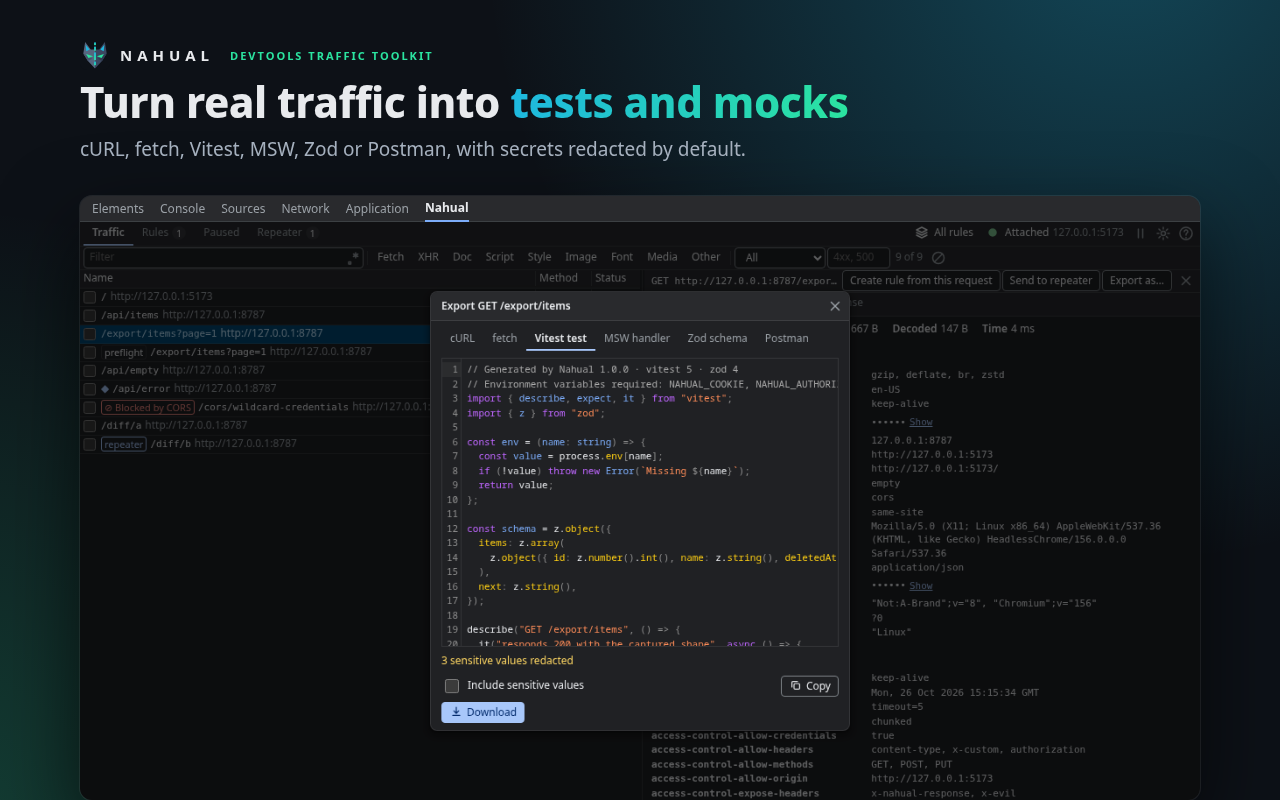
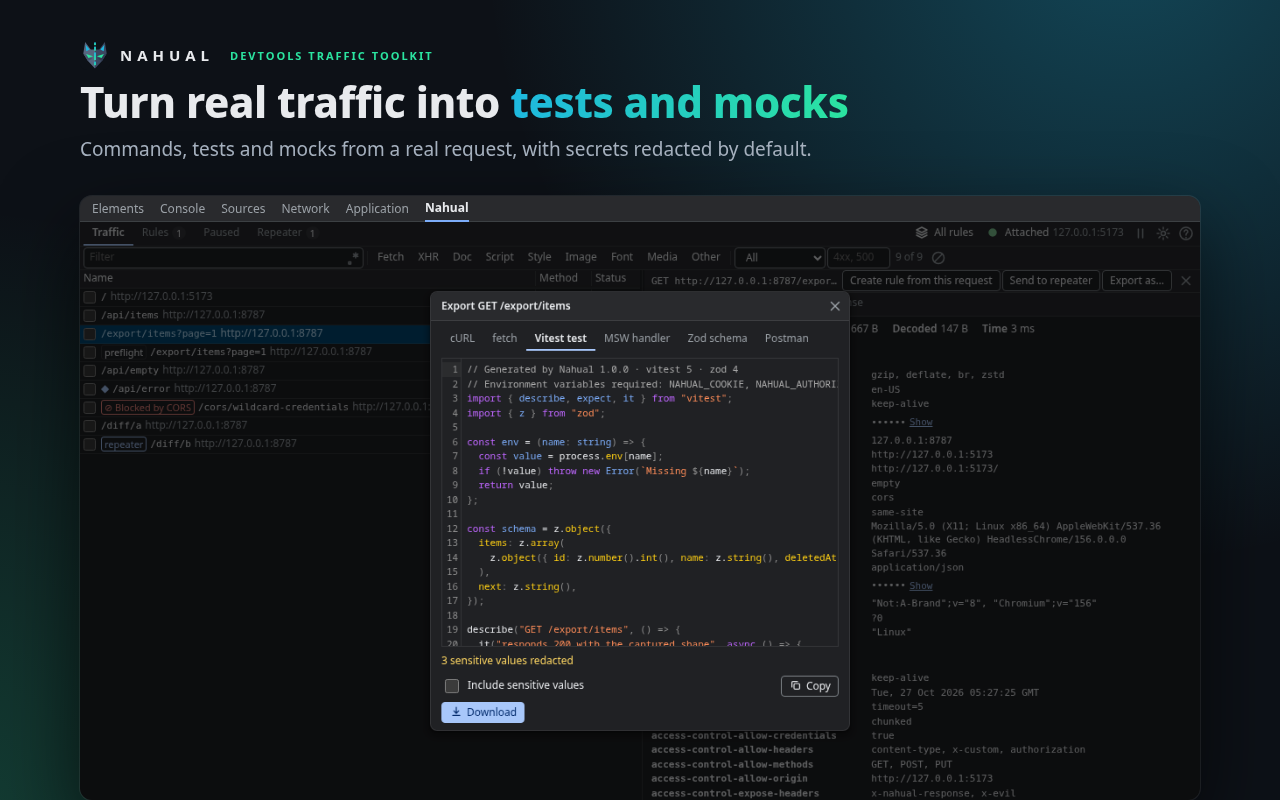
fix(store): listing without keyword lists after the Chrome Web Store rejection
The review rejected the description for keyword spam ("Yellow Argon"): the export bullet listed
six tool names. Export and rule conditions are now described in prose in both languages, and the
export screenshot subtitle no longer lists formats.

Claude-Session: https://claude.ai/code/session_01RF4hFWyH9WZ4B61n85jYpA

Changed region(s): [[0.0625, 0.1562, 0.625, 0.2188]]

diff --git a/apps/extension/e2e/store/screenshots.spec.ts b/apps/extension/e2e/store/screenshots.spec.ts
@@ -197,7 +197,7 @@ for (const theme of ["light", "dark"] as const) {
     await shoot({
       file: "5-export.png",
       title: "Turn real traffic into *tests and mocks*",
-      subtitle: "cURL, fetch, Vitest, MSW, Zod or Postman, with secrets redacted by default.",
+      subtitle: "Commands, tests and mocks from a real request, with secrets redacted by default.",
     });
     await panel.keyboard.press("Escape");
   });

diff --git a/docs/store/listing.es.md b/docs/store/listing.es.md
@@ -24,15 +24,15 @@ navegador.
 **Qué hace**
 
 - Muestra el tráfico de la pestaña con el aspecto del panel Network.
-- Reglas por sitio que pausan, simulan, fallan o retrasan solo los requests que cumplen una
-  condición (status, header, query, JSONPath, GraphQL).
+- Reglas por sitio que pausan, simulan, fallan o retrasan solo los requests que cumplen tus
+  condiciones, como el status de la respuesta o un campo del body JSON.
 - CORS de desarrollo: explica por qué se bloqueó un request y, si lo pides, lo relaja solo en esa
   pestaña, solo para tus orígenes y con caducidad. Genera un reporte para el equipo de backend.
 - Repeater y diff: reenvía un request editado y compara respuestas.
 - Hooks en TypeScript: modifica requests y respuestas con tu código, aislado y con límite de
   tiempo.
-- Exportar a código: cURL, fetch, test Vitest, handler MSW, schema Zod y colección de Postman, con
-  los valores sensibles redactados por defecto.
+- Exportar a código: convierte un request capturado en un comando, un test o un mock para tu
+  proyecto, con los valores sensibles redactados por defecto.
 - Perfiles de reglas por pestaña y configuración portable en JSON.
 
 **Por qué pide cada permiso**

diff --git a/docs/store/listing.en.md b/docs/store/listing.en.md
@@ -23,13 +23,13 @@ modify the HTTP traffic of the tab you are debugging, without leaving the browse
 **What it does**
 
 - Shows the tab's traffic with the look of the Network panel.
-- Per-site rules that pause, mock, fail or delay only the requests that match a condition (status,
-  header, query, JSONPath, GraphQL).
+- Per-site rules that pause, mock, fail or delay only the requests that match your conditions,
+  such as the response status or a field of the JSON body.
 - Development CORS: explains why a request was blocked and, if you ask, relaxes it for that tab
   only, for your origins only, with an expiry. Generates a report for the backend team.
 - Repeater and diff: resend an edited request and compare responses.
 - TypeScript hooks: change requests and responses with your own code, isolated and time-limited.
-- Export to code: cURL, fetch, Vitest test, MSW handler, Zod schema and Postman collection, with
+- Export to code: turn a captured request into a command, a test or a mock for your project, with
   sensitive values redacted by default.
 - Per-tab rule profiles and a portable JSON configuration.
 
